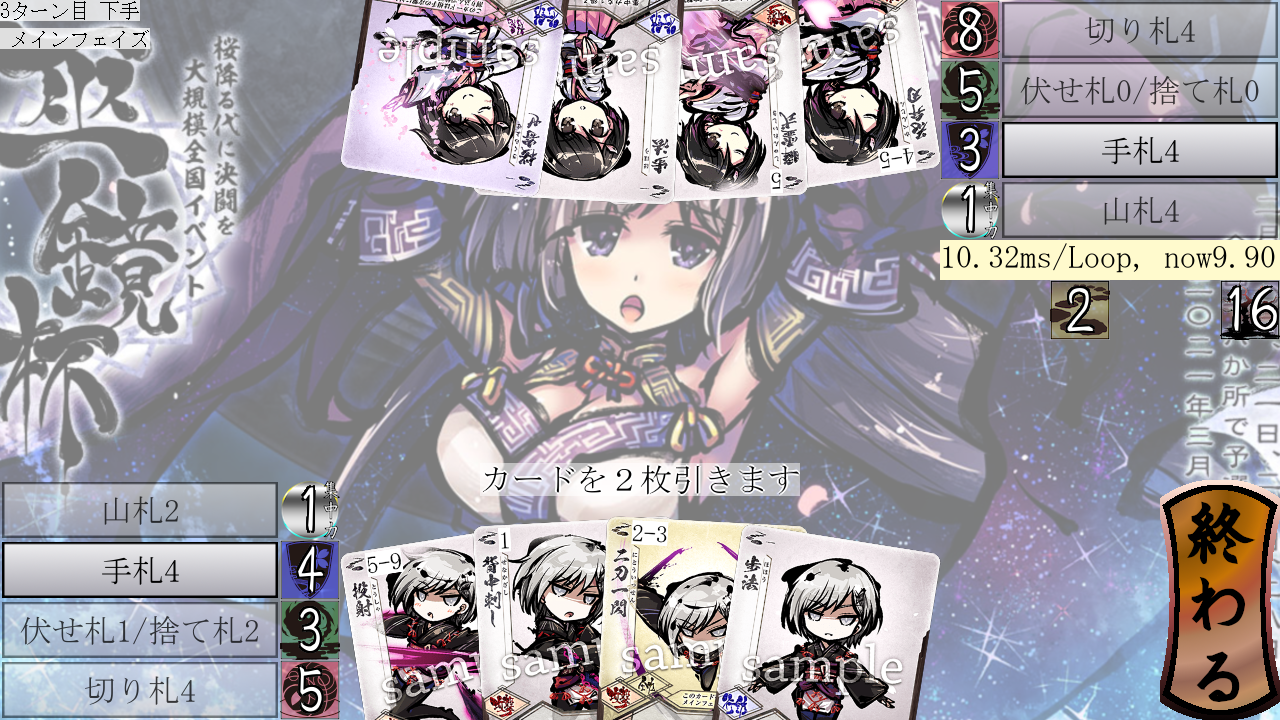
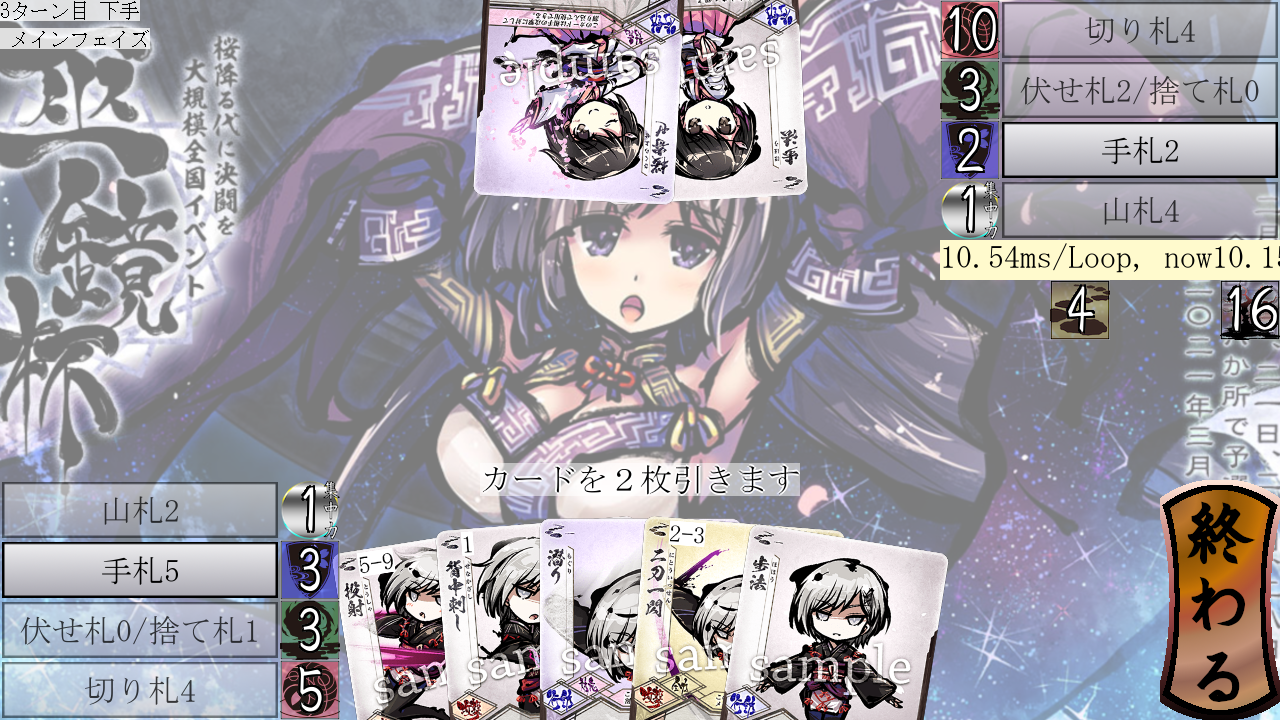
J604:圧気実装

diff --git a/kaiketus/m01o.py b/kaiketus/m01o.py
@@ -8,6 +8,7 @@ from mod.card.card import Card, auto_di, int_di, dima_di
 from mod.card.temp_koudou import TempKoudou
 from mod.coous.attack_correction import Attack, AttackCorrection, mine_cf, BoolDIIC, auto_diic
 from mod.delivery import Delivery
+from mod.card.kw.suki import suki_card
 
 def kessi(delivery: Delivery, hoyuusya: int) -> bool:
     return delivery.ouka_count(hoyuusya=hoyuusya, is_mine=True, utuwa_code=UC_LIFE) <= 3
@@ -76,3 +77,9 @@ def _kouka_n_5(delivery: Delivery, hoyuusya: int) -> None:
     delivery.m_params(hoyuusya).lingerings.append(_cfs_n_5)
 
 n_5 = Card(megami=MG_YURINA, img=pygame.image.load("cards/na_01_yurina_o_n_5_s5.png"), name="気迫", cond=auto_di, type=CT_KOUDOU, kouka=_kouka_n_5)
+
+_hakizi_n_6 = Card(megami=MG_YURINA, img=pygame.image.load("cards/na_01_yurina_o_n_6.png"), name="圧気：破棄時攻撃", cond=auto_di, type=CT_KOUGEKI,
+    aura_damage_func=int_di(3), life_bar=auto_di, maai_list_func=dima_di(3, 4))
+
+n_6 = suki_card(megami=MG_YURINA, img=pygame.image.load("cards/na_01_yurina_o_n_6.png"), name="圧気", cond=auto_di,
+                osame=int_di(2), hakizi=_hakizi_n_6)

diff --git a/mod/mikoto.py b/mod/mikoto.py
@@ -72,9 +72,9 @@ class Mikoto():
         self.yamahuda = yamahuda_factory.maid_by_cards(cards=[n_5, n_6, n_2, n_3], hoyuusya=self.hoyuusya)
         # self.yamahuda = yamahuda_factory.maid_by_cards(cards=[], hoyuusya=self.hoyuusya)
         # self.tehuda = tehuda_factory.maid_by_cards(cards=[n_1, n_4, n_7], hoyuusya=self.hoyuusya)
-        self.tehuda = tehuda_factory.maid_by_cards(cards=[n_1, n_4, n_7, n_8, n_9], hoyuusya=self.hoyuusya)
+        # self.tehuda = tehuda_factory.maid_by_cards(cards=[n_1, n_4, n_7, n_8, n_9], hoyuusya=self.hoyuusya)
         from kaiketus import m01o
-        # self.tehuda = tehuda_factory.maid_by_cards(cards=[n_1, n_4, n_7, m01o.n_1, m01o.n_2, m01o.n_3, m01o.n_4, m01o.n_5], hoyuusya=self.hoyuusya)
+        self.tehuda = tehuda_factory.maid_by_cards(cards=[n_1, n_4, n_7, m01o.n_6], hoyuusya=self.hoyuusya)
         self.kirihuda = kirihuda_factory.maid_by_cards(cards=[s_1, s_2, s_3, s_4], hoyuusya=self.hoyuusya)
 
     def _kamite_make(self) -> None:

diff --git a/mod/coous/attack_correction.py b/mod/coous/attack_correction.py
@@ -68,3 +68,9 @@ def _applied_kougeki(atk: Attack, cfs: list[Any], delivery: Delivery, hoyuusya: 
     for cf in (cf for cf in cfs if isinstance(cf, AttackCorrection)):
         kougeki = cf.taiounize(kougeki, delivery, hoyuusya)
     return kougeki
+
+# def applied_kougeki(atk: Attack, cfs: list[Any], delivery: Delivery, hoyuusya: int) -> Attack:
+#     kougeki = copy(atk)
+#     for cf in (cf for cf in cfs if isinstance(cf, AttackCorrection)):
+#         kougeki = cf.taiounize(kougeki, delivery, hoyuusya)
+#     return kougeki
